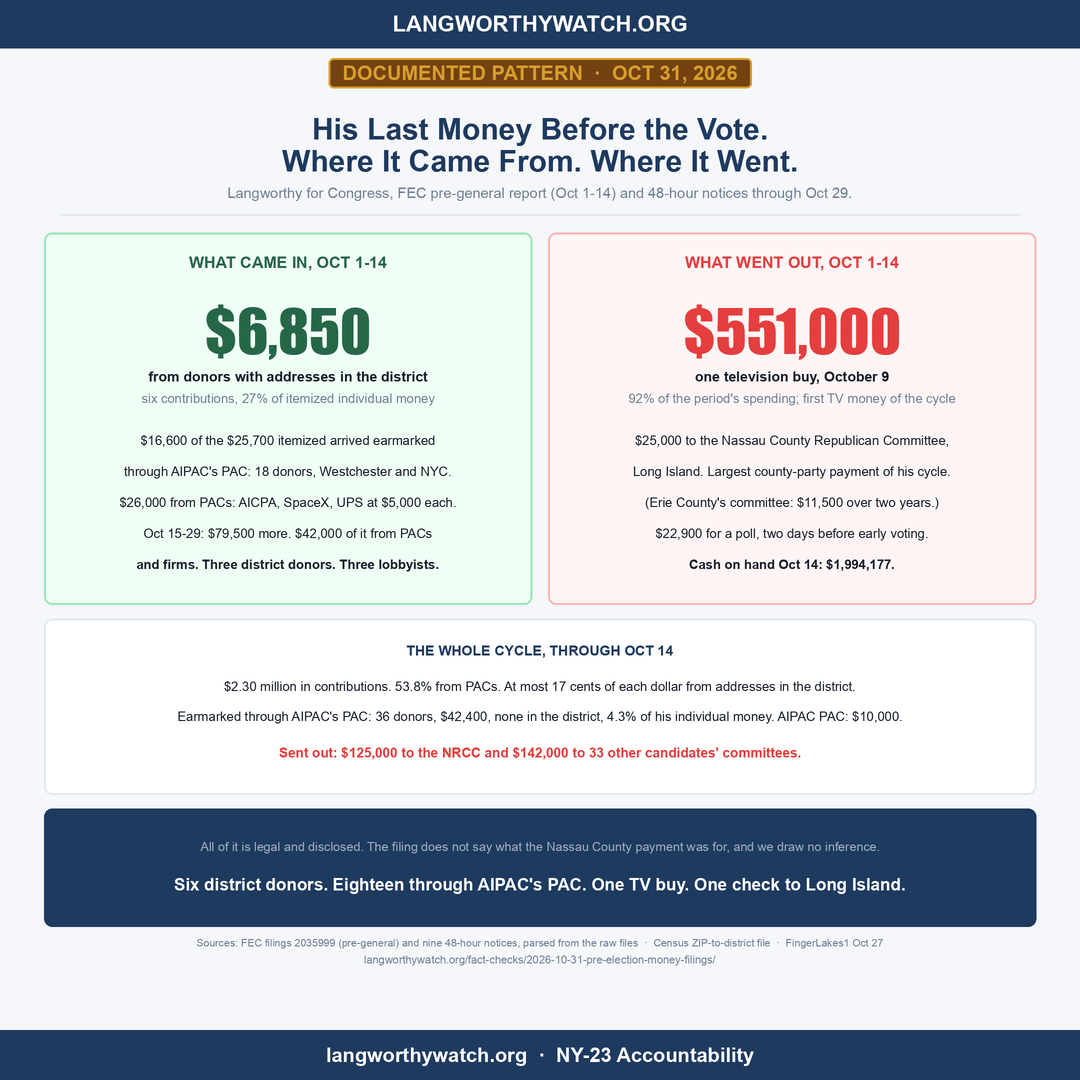
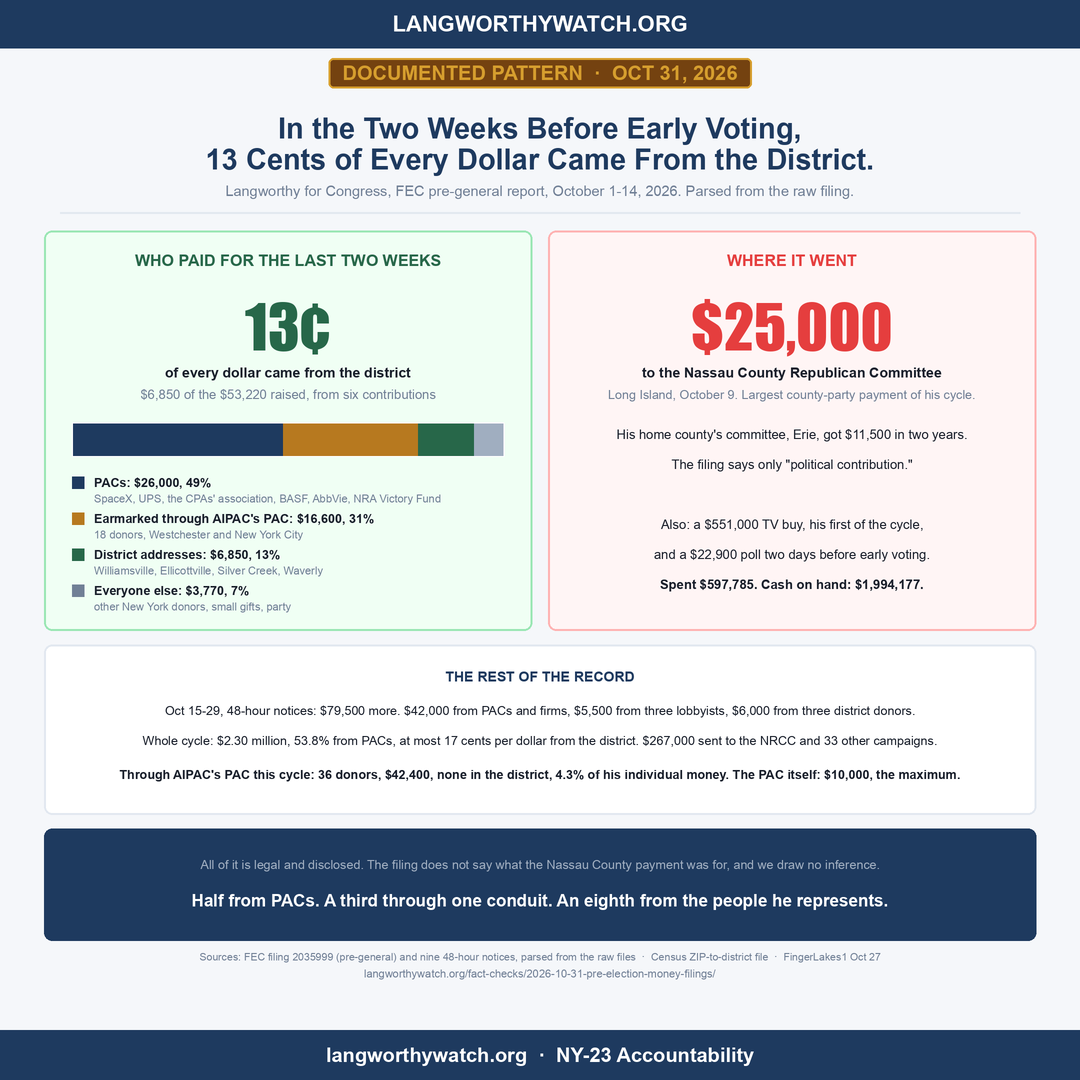
Rebuild pre-election money card and caption around the composition frame (v2)

diff --git a/social-media/create_pre_election_money_card.py b/social-media/create_pre_election_money_card.py
@@ -1,6 +1,9 @@
 #!/usr/bin/env python3
-"""Pre-election money filings, entry 2026-10-31-pre-election-money-filings (DOCUMENTED PATTERN).
-Every figure is parsed from Langworthy for Congress's own FEC filings (pre-general 2035999; 48-hour notices Oct 16-30)."""
+"""Pre-election money filings, entry 2026-10-31-pre-election-money-filings (DOCUMENTED PATTERN). v2: composition frame.
+Every figure is parsed from Langworthy for Congress's own FEC filings (pre-general 2035999; 48-hour notices Oct 16-30).
+Composition of $53,220.25 raised Oct 1-14: PACs 26,000 (48.9%); AIPAC-earmarked individuals 16,600 (31.2%);
+district-ZIP individuals 6,850 (12.9%); everyone else 3,770.25 (7.1%: other NY individuals 1,500, RJC/WinRed-earmarked 750,
+unitemized 520.25, party 1,000)."""
 import sys, os
 sys.path.insert(0, os.path.dirname(os.path.abspath(__file__)))
 from lib.card import (Card, NAVY, DARK, RED, GREEN, MUTED, BORDER, WHITE, LIGHTGRAY)
@@ -8,55 +11,72 @@ from lib.card import (Card, NAVY, DARK, RED, GREEN, MUTED, BORDER, WHITE, LIGHTG
 c = Card(scale=2)
 c.brand_bar()
 y = c.badge(58, "DOCUMENTED PATTERN  ·  OCT 31, 2026")
-y = c.title(y, "His Last Money Before the Vote.", size=30)
-y = c.title(y - 2, "Where It Came From. Where It Went.", size=30)
-y = c.subtitle(y + 6, "Langworthy for Congress, FEC pre-general report (Oct 1-14) and 48-hour notices through Oct 29.", size=14.5)
+y = c.title(y, "In the Two Weeks Before Early Voting,", size=29)
+y = c.title(y - 2, "13 Cents of Every Dollar Came From the District.", size=29)
+y = c.subtitle(y + 6, "Langworthy for Congress, FEC pre-general report, October 1-14, 2026. Parsed from the raw filing.", size=14.5)
 y = c.divider(y + 12)
 
 col_w = (c.w - 44 * 2 - 16) // 2
-col_h = 372
+col_h = 400
 lx, rx = 44, 44 + col_w + 16
 top = y + 2
-c.panel(lx, top, lx + col_w, top + col_h, fill="#F0FFF4", outline="#9AE6B4")
-c.text(lx + col_w / 2, top + 30, "WHAT CAME IN, OCT 1-14", size=16, bold=True, fill=GREEN, anchor="mm")
-c.text(lx + col_w / 2, top + 98, "$6,850", size=58, impact=True, fill=GREEN, anchor="mm")
-c.text(lx + col_w / 2, top + 144, "from donors with addresses in the district", size=14, bold=True, fill=DARK, anchor="mm")
-c.text(lx + col_w / 2, top + 166, "six contributions, 27% of itemized individual money", size=13, fill=MUTED, anchor="mm")
-for i, t in enumerate(["$16,600 of the $25,700 itemized arrived earmarked",
-                       "through AIPAC's PAC: 18 donors, Westchester and NYC.",
-                       "$26,000 from PACs: AICPA, SpaceX, UPS at $5,000 each.",
-                       "Oct 15-29: $79,500 more. $42,000 of it from PACs",
-                       "and firms. Three district donors. Three lobbyists."]):
-    c.text(lx + col_w / 2, top + 208 + i * 31, t, size=13, bold=(i == 4), fill=DARK, anchor="mm")
 
+# LEFT: composition
+c.panel(lx, top, lx + col_w, top + col_h, fill="#F0FFF4", outline="#9AE6B4")
+c.text(lx + col_w / 2, top + 30, "WHO PAID FOR THE LAST TWO WEEKS", size=16, bold=True, fill=GREEN, anchor="mm")
+c.text(lx + col_w / 2, top + 96, "13¢", size=60, impact=True, fill=GREEN, anchor="mm")
+c.text(lx + col_w / 2, top + 142, "of every dollar came from the district", size=14, bold=True, fill=DARK, anchor="mm")
+c.text(lx + col_w / 2, top + 164, "$6,850 of the $53,220 raised, from six contributions", size=13, fill=MUTED, anchor="mm")
+# stacked bar
+segs = [("PACs", 0.489, NAVY), ("Through AIPAC's PAC", 0.312, "#B7791F"), ("District", 0.129, GREEN), ("Other", 0.070, "#A0AEC0")]
+bx0, bx1, by0, by1 = lx + 28, lx + col_w - 28, top + 192, top + 226
+x = bx0
+for name, frac, col in segs:
+    w = (bx1 - bx0) * frac
+    c.rect(x, by0, x + w, by1, fill=col, outline=None)
+    x += w
+c.rect(bx0, by0, bx1, by1, fill=None, outline=WHITE, width=1)
+legend = [("PACs: $26,000, 49%", NAVY, "SpaceX, UPS, the CPAs' association, BASF, AbbVie, NRA Victory Fund"),
+          ("Earmarked through AIPAC's PAC: $16,600, 31%", "#B7791F", "18 donors, Westchester and New York City"),
+          ("District addresses: $6,850, 13%", GREEN, "Williamsville, Ellicottville, Silver Creek, Waverly"),
+          ("Everyone else: $3,770, 7%", "#718096", "other New York donors, small gifts, party")]
+ly = top + 252
+for i, (lab, col, sub) in enumerate(legend):
+    c.rect(lx + 28, ly - 6, lx + 40, ly + 6, fill=col, outline=None)
+    c.text(lx + 50, ly, lab, size=12.5, bold=True, fill=DARK, anchor="lm")
+    c.text(lx + 50, ly + 16, sub, size=11, fill=MUTED, anchor="lm")
+    ly += 36
+
+# RIGHT: where it went
 c.panel(rx, top, rx + col_w, top + col_h, fill="#FFF5F5", outline="#FEB2B2")
-c.text(rx + col_w / 2, top + 30, "WHAT WENT OUT, OCT 1-14", size=16, bold=True, fill=RED, anchor="mm")
-c.text(rx + col_w / 2, top + 98, "$551,000", size=58, impact=True, fill=RED, anchor="mm")
-c.text(rx + col_w / 2, top + 144, "one television buy, October 9", size=14, bold=True, fill=DARK, anchor="mm")
-c.text(rx + col_w / 2, top + 166, "92% of the period's spending; first TV money of the cycle", size=13, fill=MUTED, anchor="mm")
-for i, t in enumerate(["$25,000 to the Nassau County Republican Committee,",
-                       "Long Island. Largest county-party payment of his cycle.",
-                       "(Erie County's committee: $11,500 over two years.)",
-                       "$22,900 for a poll, two days before early voting.",
-                       "Cash on hand Oct 14: $1,994,177."]):
-    c.text(rx + col_w / 2, top + 208 + i * 31, t, size=13, bold=(i == 4), fill=DARK, anchor="mm")
+c.text(rx + col_w / 2, top + 30, "WHERE IT WENT", size=16, bold=True, fill=RED, anchor="mm")
+c.text(rx + col_w / 2, top + 96, "$25,000", size=60, impact=True, fill=RED, anchor="mm")
+c.text(rx + col_w / 2, top + 142, "to the Nassau County Republican Committee", size=14, bold=True, fill=DARK, anchor="mm")
+c.text(rx + col_w / 2, top + 164, "Long Island, October 9. Largest county-party payment of his cycle.", size=12.5, fill=MUTED, anchor="mm")
+for i, t in enumerate(["His home county's committee, Erie, got $11,500 in two years.",
+                       "The filing says only \"political contribution.\"",
+                       "",
+                       "Also: a $551,000 TV buy, his first of the cycle,",
+                       "and a $22,900 poll two days before early voting.",
+                       "Spent $597,785. Cash on hand: $1,994,177."]):
+    if t: c.text(rx + col_w / 2, top + 204 + i * 30, t, size=13, bold=(i == 5), fill=DARK, anchor="mm")
 y = top + col_h + 14
 
-strip_h = 176
+strip_h = 170
 c.panel(44, y, c.w - 44, y + strip_h, fill=WHITE, outline=BORDER)
-c.text(c.w / 2, y + 32, "THE WHOLE CYCLE, THROUGH OCT 14", size=14, bold=True, fill=NAVY, anchor="mm")
-c.text(c.w / 2, y + 68, "$2.30 million in contributions. 53.8% from PACs. At most 17 cents of each dollar from addresses in the district.", size=13, fill=DARK, anchor="mm")
-c.text(c.w / 2, y + 98, "Earmarked through AIPAC's PAC: 36 donors, $42,400, none in the district, 4.3% of his individual money. AIPAC PAC: $10,000.", size=13, fill=DARK, anchor="mm")
-c.text(c.w / 2, y + 134, "Sent out: $125,000 to the NRCC and $142,000 to 33 other candidates' committees.", size=13.5, bold=True, fill=RED, anchor="mm")
+c.text(c.w / 2, y + 32, "THE REST OF THE RECORD", size=14, bold=True, fill=NAVY, anchor="mm")
+c.text(c.w / 2, y + 66, "Oct 15-29, 48-hour notices: $79,500 more. $42,000 from PACs and firms, $5,500 from three lobbyists, $6,000 from three district donors.", size=12.5, fill=DARK, anchor="mm")
+c.text(c.w / 2, y + 96, "Whole cycle: $2.30 million, 53.8% from PACs, at most 17 cents per dollar from the district. $267,000 sent to the NRCC and 33 other campaigns.", size=12.5, fill=DARK, anchor="mm")
+c.text(c.w / 2, y + 130, "Through AIPAC's PAC this cycle: 36 donors, $42,400, none in the district, 4.3% of his individual money. The PAC itself: $10,000, the maximum.", size=12.5, bold=True, fill=DARK, anchor="mm")
 y += strip_h + 14
 
-kick_h = 118
+kick_h = 112
 c.panel(44, y, c.w - 44, y + kick_h, fill=NAVY, outline=None)
-c.text(c.w / 2, y + 38, "All of it is legal and disclosed. The filing does not say what the Nassau County payment was for, and we draw no inference.",
+c.text(c.w / 2, y + 36, "All of it is legal and disclosed. The filing does not say what the Nassau County payment was for, and we draw no inference.",
        size=12.5, fill=LIGHTGRAY, anchor="mm")
-c.text(c.w / 2, y + 76, "Six district donors. Eighteen through AIPAC's PAC. One TV buy. One check to Long Island.", size=17, bold=True, fill=WHITE, anchor="mm")
+c.text(c.w / 2, y + 72, "Half from PACs. A third through one conduit. An eighth from the people he represents.", size=17, bold=True, fill=WHITE, anchor="mm")
 y += kick_h + 16
-c.text(c.w / 2, y, "Sources: FEC filings 2035999 (pre-general) and nine 48-hour notices, parsed from the raw files  ·  Census ZIP-to-district file  ·  FingerLakes1 Oct 27", size=10.5, fill=MUTED, anchor="mm")
+c.text(c.w / 2, y, "Sources: FEC filing 2035999 (pre-general) and nine 48-hour notices, parsed from the raw files  ·  Census ZIP-to-district file  ·  FingerLakes1 Oct 27", size=10.5, fill=MUTED, anchor="mm")
 c.text(c.w / 2, y + 17, "langworthywatch.org/fact-checks/2026-10-31-pre-election-money-filings/", size=11, fill=MUTED, anchor="mm")
 c.footer_bar()
 c.save(os.path.join(os.path.dirname(os.path.abspath(__file__)), "pre_election_money_card.png"), to_desktop=True)

diff --git a/social-media/pre_election_money_post.md b/social-media/pre_election_money_post.md
@@ -1,19 +1,17 @@
-# DRAFT Oct 31, 2026 (pre-election money; entry 2026-10-31-pre-election-money-filings, DOCUMENTED PATTERN)
+# DRAFT Oct 31, 2026 v2 (pre-election money; entry 2026-10-31-pre-election-money-filings, DOCUMENTED PATTERN)
 # Card: pre_election_money_card.png (create_pre_election_money_card.py)
 
-$551,000 on television. $25,000 to Nassau County's Republican Party. $6,850 from donors in the district. His campaign's last filings before the election, read line by line.
+In the two weeks before early voting, 13 cents of every dollar his campaign raised came from the district. Half came from PACs. A third came through AIPAC's PAC, from donors in Westchester and Manhattan.
 
 VERDICT: DOCUMENTED PATTERN
 
-→ October 1 to 14, he raised $53,220 and spent $597,785. Cash on hand fell for the first time this cycle, to $1,994,177.
-→ Of the $25,700 in itemized individual money, $16,600 came from 18 donors in Westchester and New York City whose gifts are marked "earmarked through" AIPAC's PAC. Six contributions came from addresses in the district, totaling $6,850.
-→ PACs gave $26,000: SpaceX, UPS and the accountants' association at $5,000 each, then BASF, AbbVie, Vertex and the NRA Victory Fund.
-→ The spending: a $551,000 TV buy on October 9, his first of the cycle. A $22,900 poll two days before early voting. And $25,000 to the Nassau County Republican Committee on Long Island, the largest payment to any county party in his cycle. His own Erie County committee got $11,500 in two years. The filing lists no purpose beyond "political contribution."
-→ October 15 to 29, 48-hour notices added $79,500: $42,000 from PACs and firms, three donors from the district, three who list their job as lobbyist.
-→ The cycle: $2.30 million, 53.8 percent from PACs, at most 17 cents per dollar from the district. Across the whole cycle, 36 donors gave $42,400 through AIPAC's PAC, none of them in the district, about 4 percent of his individual money; the PAC itself gave the $10,000 maximum.
+→ The $53,220 he raised October 1 to 14: $26,000 from PACs (SpaceX, UPS, the CPAs' association, BASF, AbbVie, the NRA Victory Fund). $16,600 from 18 donors whose gifts are marked "earmarked through" AIPAC's PAC. $6,850 from six donors with addresses in the district. $3,770 from everyone else.
+→ Where it went: a $551,000 TV buy on October 9, a $22,900 poll two days before early voting, and $25,000 to the Nassau County Republican Committee on Long Island, the largest payment to any county party in his cycle. His own Erie County committee got $11,500 in two years. The filing says only "political contribution."
+→ October 15 to 29, 48-hour notices added $79,500: $42,000 from PACs and firms, $5,500 from three lobbyists, $6,000 from three district donors.
+→ The cycle: $2.30 million, 53.8 percent from PACs, at most 17 cents per dollar from the district. Through AIPAC's PAC all cycle: 36 donors, $42,400, none in the district, about 4 percent of his individual money. The PAC itself gave the $10,000 maximum.
 
-What is ordinary here: all of it is legal and disclosed. Earmarking through a PAC is how AIPAC's members give, and $152,913 of his money came through WinRed the same way. A TV buy in October is what the money is for. Transfers to the NRCC ($125,000) and 33 other candidates ($142,000) are what safe-seat members do. We do not know what the Nassau payment was for, and we do not guess.
+All of it is legal and disclosed. Earmarking through a PAC is how AIPAC's members give; $152,913 of his money came through WinRed the same way. October TV buys are what the money is for. We do not know what the Nassau payment was for, and we do not guess.
 
-The pattern we documented on October 16, carried to the end: most of the money from PACs, a sliver from the district, and in the last two weeks, one check to Long Island.
+The pattern we documented on October 16, carried to the end.
 
 https://langworthywatch.org/fact-checks/2026-10-31-pre-election-money-filings/
